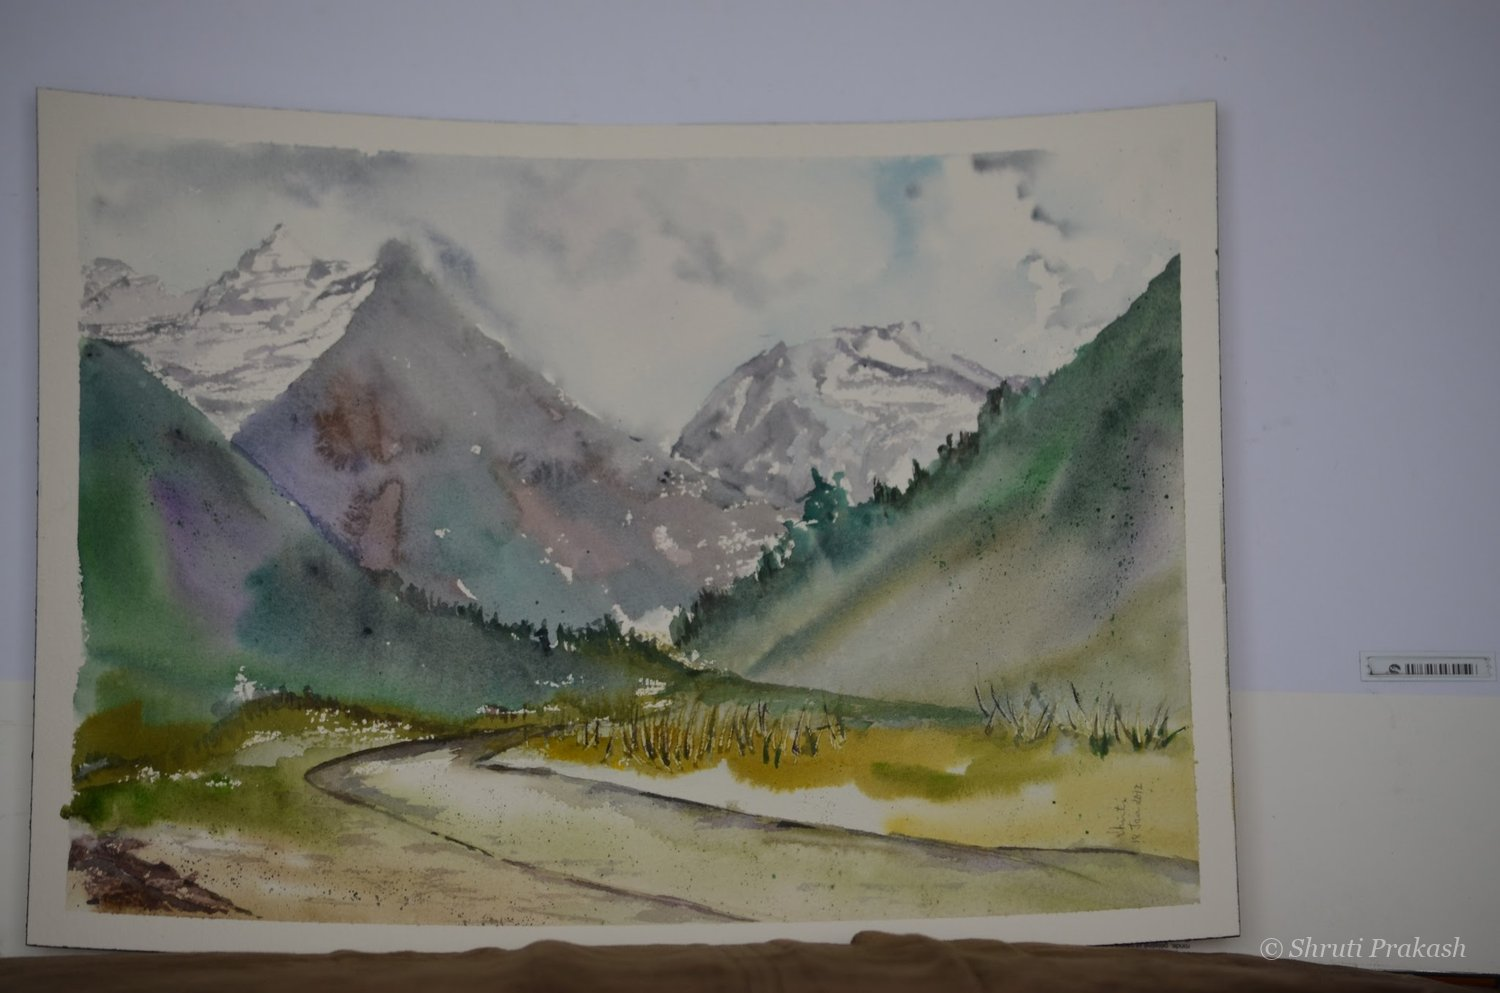
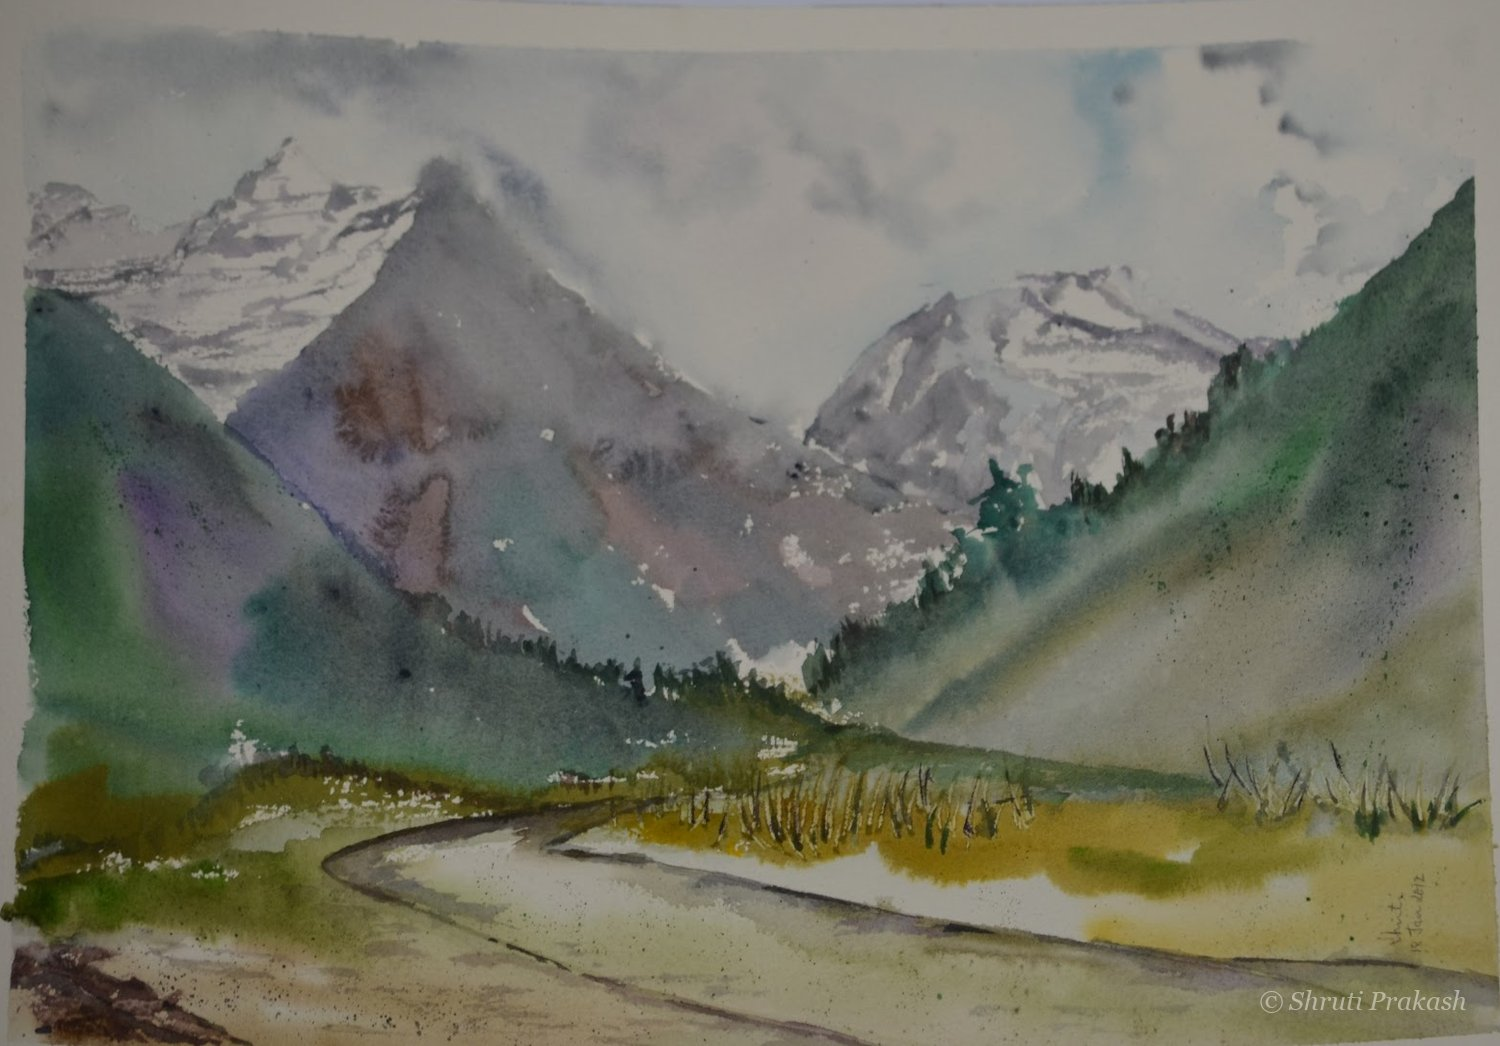
Crop paintings, add 73 new works and a Travel Journal group, update email

diff --git a/paintings.js b/paintings.js
@@ -6,7 +6,7 @@
 const SITE = {
   name: "Shruti Prakash Art",
   tagline: "Watercolor landscapes, cityscapes & quiet moments",
-  email: "shrutiprakash@gmail.com",
+  email: "shruti.prakash@gmail.com",
   instagram: "", // optional, e.g. "https://instagram.com/yourname"
 };
 
@@ -15,97 +15,102 @@ const GROUPS = [
   { id: "landscapes", title: "Landscapes" },
   { id: "cityscapes", title: "Cityscapes" },
   { id: "still-life", title: "Still Life & More" },
+  { id: "travel-journal", title: "Travel Journal" },
 ];
 
 // Your paintings, in the order they appear within each group.
 // No prices or "Available" labels are shown. Set status to "Sold" to mark one as sold.
+// size is optional; add one (e.g. size: "12 × 16 in") to show it.
 const PAINTINGS = [
-  {
-    image: "images/dsc_0712.jpg",
-    group: "landscapes",
-    title: "Valley Below the Snow Peaks",
-    medium: "Watercolor on paper",
-    status: "Available",
-    description: "A winding path through a green valley toward snow-capped mountains.",
-  },
-  {
-    image: "images/img_7335.jpg",
-    group: "landscapes",
-    title: "Misty Lake",
-    medium: "Watercolor on paper",
-    status: "Available",
-    description: "Soft morning mist settling over still water and a quiet shoreline.",
-  },
-  {
-    image: "images/dsc_0516.jpg",
-    group: "cityscapes",
-    title: "The Old Château",
-    medium: "Watercolor on paper",
-    status: "Available",
-    description: "Weathered stone towers reflected in the water at their feet.",
-  },
-  {
-    image: "images/img_6464.jpg",
-    group: "cityscapes",
-    title: "Arches and a Bicycle",
-    medium: "Watercolor on paper",
-    status: "Available",
-    description: "Warm sandstone arches and a bicycle resting in the afternoon shade.",
-  },
-  {
-    image: "images/img_6133.jpg",
-    group: "cityscapes",
-    title: "Ramnagar Fort, Banaras",
-    medium: "Watercolor in sketchbook",
-    status: "Available",
-    description: "",
-  },
-  {
-    image: "images/img_6127.jpg",
-    group: "cityscapes",
-    title: "An Old Temple of Sitaji",
-    medium: "Watercolor in sketchbook",
-    status: "Available",
-    description: "",
-  },
-  {
-    image: "images/img_6145.jpg",
-    group: "cityscapes",
-    title: "Ghar",
-    medium: "Watercolor in sketchbook",
-    status: "Available",
-    description: "Home: a white house with its terrace garden.",
-  },
-  {
-    image: "images/img_8774.jpg",
-    group: "still-life",
-    title: "Geraniums by the Window",
-    medium: "Watercolor on paper",
-    status: "Available",
-    description: "Pink geraniums in the light of a lace-curtained window.",
-  },
-  {
-    image: "images/dsc_0726.jpg",
-    group: "still-life",
-    title: "Autumn at the Window",
-    medium: "Watercolor on paper",
-    status: "Available",
-    description: "",
-  },
-  {
-    image: "images/img_6468.jpg",
-    group: "still-life",
-    title: "Ganesha",
-    medium: "Watercolor on paper",
-    status: "Available",
-    description: "",
-  },
-  {
-    image: "images/coffee.jpg",
-    group: "still-life",
-    title: "Morning Coffee",
-    medium: "Watercolor on paper",
-    status: "Available",
-    description: "A cappuccino and the morning paper.",
-  },
+  // ----- Landscapes -----
+  { image: "images/dsc_0712.jpg", group: "landscapes", title: "Valley Below the Snow Peaks", medium: "Watercolor on paper", status: "Available", description: "A winding path through a green valley toward snow-capped mountains." },
+  { image: "images/img_7335.jpg", group: "landscapes", title: "Misty Lake", medium: "Watercolor on paper", status: "Available", description: "Soft morning mist settling over still water and a quiet shoreline." },
+  { image: "images/dsc_0701.jpg", group: "landscapes", title: "Mountain Lake in Autumn", medium: "Watercolor on paper", status: "Available", description: "" },
+  { image: "images/img_9537.jpg", group: "landscapes", title: "Mountain Road", medium: "Watercolor on paper", status: "Available", description: "" },
+  { image: "images/img_8776.jpg", group: "landscapes", title: "Boats on the Shore", medium: "Watercolor on paper", status: "Available", description: "" },
+  { image: "images/img_8771.jpg", group: "landscapes", title: "Evening on the Beach", medium: "Watercolor on paper", status: "Available", description: "" },
+  { image: "images/24867_661479273199_12808515_37410455_6552051_n.jpg", group: "landscapes", title: "Flamingos at Sunset", medium: "Watercolor on paper", status: "Available", description: "" },
+  { image: "images/img_2773.jpg", group: "landscapes", title: "Pines and Peaks", medium: "Watercolor on paper", status: "Available", description: "" },
+  { image: "images/img_2784.jpg", group: "landscapes", title: "Winter Fence", medium: "Watercolor on paper", status: "Available", description: "" },
+  { image: "images/n12808515_35377351_7546264.jpg", group: "landscapes", title: "Palms and a Houseboat", medium: "Watercolor on paper", status: "Available", description: "" },
+  { image: "images/24867_661479278189_12808515_37410456_6691914_n.jpg", group: "landscapes", title: "Cottage in the Garden", medium: "Watercolor on paper", status: "Available", description: "" },
+  { image: "images/n12808515_30111728_5365.jpg", group: "landscapes", title: "Barn Under a Stormy Sky", medium: "Watercolor on paper", status: "Available", description: "" },
+
+  // ----- Cityscapes -----
+  { image: "images/dsc_0516.jpg", group: "cityscapes", title: "The Old Château", medium: "Watercolor on paper", status: "Available", description: "Weathered stone towers reflected in the water at their feet." },
+  { image: "images/img_6464.jpg", group: "cityscapes", title: "Arches and a Bicycle", medium: "Watercolor on paper", status: "Available", description: "Warm sandstone arches and a bicycle resting in the afternoon shade." },
+  { image: "images/img_8773.jpg", group: "cityscapes", title: "Bridge in the Old Town", medium: "Watercolor on paper", status: "Available", description: "" },
+  { image: "images/img_9852.jpg", group: "cityscapes", title: "Old Town Street", medium: "Watercolor on paper", status: "Available", description: "" },
+  { image: "images/img_8775.jpg", group: "cityscapes", title: "Autumn Street", medium: "Watercolor on paper", status: "Available", description: "" },
+  { image: "images/img_8772.jpg", group: "cityscapes", title: "The Tunnel", medium: "Watercolor on paper", status: "Available", description: "" },
+  { image: "images/img_9187.jpg", group: "cityscapes", title: "Chinatown, San Francisco", medium: "Watercolor on paper", status: "Available", description: "" },
+  { image: "images/1098273_10100596715080119_1041762224_n.jpg", group: "cityscapes", title: "Ferry Building and Streetcar", medium: "Watercolor on paper", status: "Available", description: "" },
+  { image: "images/img_8769.jpg", group: "cityscapes", title: "Rock-Cut Caves", medium: "Watercolor on paper", status: "Available", description: "" },
+  { image: "images/img_1416.jpg", group: "cityscapes", title: "Buddha in the Cave Temple", medium: "Watercolor on paper", status: "Available", description: "" },
+  { image: "images/img_3622.jpg", group: "cityscapes", title: "Palace with the Cannon", medium: "Watercolor on paper", status: "Available", description: "" },
+  { image: "images/img_6144.jpg", group: "cityscapes", title: "Heritage Building", medium: "Watercolor on paper", status: "Available", description: "" },
+  { image: "images/5490_628836414749_12808515_36285774_5151343_n.jpg", group: "cityscapes", title: "Balcony with Ironwork", medium: "Watercolor on paper", status: "Available", description: "" },
+  { image: "images/n12808515_35377349_6803366.jpg", group: "cityscapes", title: "Sunlit Courtyard", medium: "Watercolor on paper", status: "Available", description: "" },
+  { image: "images/img_5739.jpg", group: "cityscapes", title: "The Gate at Home", medium: "Watercolor on paper", status: "Available", description: "" },
+
+  // ----- Still Life & More -----
+  { image: "images/img_8774.jpg", group: "still-life", title: "Geraniums by the Window", medium: "Watercolor on paper", status: "Available", description: "Pink geraniums in the light of a lace-curtained window." },
+  { image: "images/mystery.jpg", group: "still-life", title: "Mystery", medium: "Watercolor on paper", status: "Available", description: "" },
+  { image: "images/img_6468.jpg", group: "still-life", title: "Ganesha", medium: "Watercolor on paper", status: "Available", description: "" },
+  { image: "images/coffee.jpg", group: "still-life", title: "Morning Coffee", medium: "Watercolor on paper", status: "Available", description: "A cappuccino and the morning paper." },
+  { image: "images/img_8770.jpg", group: "still-life", title: "Roosters", medium: "Watercolor on paper", status: "Available", description: "" },
+  { image: "images/img_4078.jpg", group: "still-life", title: "Calla Lilies", medium: "Watercolor on paper", status: "Available", description: "" },
+  { image: "images/dsc_0726.jpg", group: "still-life", title: "Autumn at the Window", medium: "Watercolor on paper", status: "Available", description: "" },
+  { image: "images/img_6292.jpg", group: "still-life", title: "Woman in a Blue Shawl", medium: "Watercolor on paper", status: "Available", description: "" },
+  { image: "images/dsc_0732.jpg", group: "still-life", title: "Village Woman with Water Pots", medium: "Watercolor on paper", status: "Available", description: "" },
+  { image: "images/img_8829.jpg", group: "still-life", title: "Roses in Crystal", medium: "Watercolor on paper", status: "Available", description: "" },
+  { image: "images/img_7796.jpg", group: "still-life", title: "Tangerine", medium: "Watercolor on paper", status: "Available", description: "" },
+  { image: "images/img_4677.jpg", group: "still-life", title: "Tulips and Teacup", medium: "Watercolor on paper", status: "Available", description: "" },
+  { image: "images/flowers.jpg", group: "still-life", title: "Hollyhocks", medium: "Watercolor on paper", status: "Available", description: "" },
+  { image: "images/img_9536.jpg", group: "still-life", title: "Stone Window with Flowers", medium: "Watercolor on paper", status: "Available", description: "" },
+  { image: "images/img_8243.jpg", group: "still-life", title: "The Old Suitcase", medium: "Watercolor on paper", status: "Available", description: "" },
+  { image: "images/img_8256.jpg", group: "still-life", title: "Glass Jar", medium: "Watercolor on paper", status: "Available", description: "" },
+  { image: "images/img_4090.jpg", group: "still-life", title: "Sneakers by the Sea", medium: "Watercolor in sketchbook", status: "Available", description: "" },
+  { image: "images/img_4081.jpg", group: "still-life", title: "Succulent", medium: "Watercolor on paper", status: "Available", description: "" },
+  { image: "images/img_7784.jpg", group: "still-life", title: "Bananas and Peppers", medium: "Watercolor on paper", status: "Available", description: "" },
+  { image: "images/5490_628836409759_12808515_36285773_3319403_n.jpg", group: "still-life", title: "Girl in a Sun Hat", medium: "Watercolor on paper", status: "Available", description: "" },
+  { image: "images/5490_628836439699_12808515_36285779_2830022_n.jpg", group: "still-life", title: "Red Rose", medium: "Watercolor on paper", status: "Available", description: "" },
+  { image: "images/5490_628836444689_12808515_36285780_6884502_n.jpg", group: "still-life", title: "Pink Rose", medium: "Watercolor on paper", status: "Available", description: "" },
+  { image: "images/5490_628836434709_12808515_36285778_4710100_n.jpg", group: "still-life", title: "Heliconias in a Glass Vase", medium: "Watercolor on paper", status: "Available", description: "" },
+  { image: "images/n12808515_35377352_7322694.jpg", group: "still-life", title: "Hydrangeas", medium: "Watercolor on paper", status: "Available", description: "" },
+  { image: "images/n12808515_35377356_2026953.jpg", group: "still-life", title: "Books, Tea and Plums", medium: "Watercolor on paper", status: "Available", description: "" },
+
+  // ----- Travel Journal -----
+  { image: "images/img_6108.jpg", group: "travel-journal", title: "Farmland at Mandar Hill", medium: "Watercolor in sketchbook", status: "Available", description: "" },
+  { image: "images/img_6109.jpg", group: "travel-journal", title: "An Old Red House", medium: "Watercolor in sketchbook", status: "Available", description: "" },
+  { image: "images/img_6136.jpg", group: "travel-journal", title: "Hilltop Temple, Rajgir", medium: "Watercolor in sketchbook", status: "Available", description: "" },
+  { image: "images/img_6137.jpg", group: "travel-journal", title: "Village on the Drive to Rajgir", medium: "Watercolor in sketchbook", status: "Available", description: "" },
+  { image: "images/img_6114.jpg", group: "travel-journal", title: "Nalanda Ruins", medium: "Watercolor in sketchbook", status: "Available", description: "" },
+  { image: "images/img_6116-1.jpg", group: "travel-journal", title: "Hotel at Bodh Gaya", medium: "Watercolor in sketchbook", status: "Available", description: "" },
+  { image: "images/img_6117-1.jpg", group: "travel-journal", title: "Tilkut Stand on the Way to Bodh Gaya", medium: "Watercolor in sketchbook", status: "Available", description: "" },
+  { image: "images/img_6118.jpg", group: "travel-journal", title: "Yakshini, Patna Museum", medium: "Watercolor in sketchbook", status: "Available", description: "" },
+  { image: "images/img_6124.jpg", group: "travel-journal", title: "Darbhanga House, Patna University", medium: "Watercolor in sketchbook", status: "Available", description: "" },
+  { image: "images/img_6125.jpg", group: "travel-journal", title: "Golghar, Patna", medium: "Watercolor in sketchbook", status: "Available", description: "" },
+  { image: "images/img_3602.jpg", group: "travel-journal", title: "Hanuman Mandir & Masjid, Patna", medium: "Watercolor in sketchbook", status: "Available", description: "" },
+  { image: "images/img_6142.jpg", group: "travel-journal", title: "Ara Junction", medium: "Watercolor in sketchbook", status: "Available", description: "As seen from the train to Banaras." },
+  { image: "images/img_6110.jpg", group: "travel-journal", title: "Fort Overlooking the Ganges", medium: "Watercolor in sketchbook", status: "Available", description: "" },
+  { image: "images/img_6133.jpg", group: "travel-journal", title: "Ramnagar Fort, Banaras", medium: "Watercolor in sketchbook", status: "Available", description: "" },
+  { image: "images/img_6140.jpg", group: "travel-journal", title: "Ramnagar Fort Gateway", medium: "Watercolor in sketchbook", status: "Available", description: "" },
+  { image: "images/img_6111.jpg", group: "travel-journal", title: "The Temple Bell, BHU Campus", medium: "Watercolor in sketchbook", status: "Available", description: "" },
+  { image: "images/img_6121.jpg", group: "travel-journal", title: "Steps by the Ghat", medium: "Watercolor in sketchbook", status: "Available", description: "" },
+  { image: "images/img_6122.jpg", group: "travel-journal", title: "Puppies Warming Up on the Ganga Path", medium: "Watercolor in sketchbook", status: "Available", description: "" },
+  { image: "images/img_6123.jpg", group: "travel-journal", title: "Somewhere on the Ganga Path", medium: "Watercolor in sketchbook", status: "Available", description: "" },
+  { image: "images/img_6120.jpg", group: "travel-journal", title: "Through the Arches", medium: "Watercolor in sketchbook", status: "Available", description: "" },
+  { image: "images/img_6112.jpg", group: "travel-journal", title: "Hazaribagh House", medium: "Watercolor in sketchbook", status: "Available", description: "" },
+  { image: "images/img_6138.jpg", group: "travel-journal", title: "Courtyard in Hazaribagh", medium: "Watercolor in sketchbook", status: "Available", description: "" },
+  { image: "images/img_6113.jpg", group: "travel-journal", title: "Kitchen Corner", medium: "Watercolor in sketchbook", status: "Available", description: "" },
+  { image: "images/img_6139.jpg", group: "travel-journal", title: "Roadside Fruit Stand", medium: "Watercolor in sketchbook", status: "Available", description: "" },
+  { image: "images/img_6145.jpg", group: "travel-journal", title: "Ghar", medium: "Watercolor in sketchbook", status: "Available", description: "Home: a white house with its terrace garden." },
+  { image: "images/img_6127.jpg", group: "travel-journal", title: "An Old Temple of Sitaji", medium: "Watercolor in sketchbook", status: "Available", description: "" },
+  { image: "images/img_6128.jpg", group: "travel-journal", title: "The Abandoned Fort", medium: "Watercolor in sketchbook", status: "Available", description: "" },
+  { image: "images/img_6126.jpg", group: "travel-journal", title: "Chai Stall at Ganpatipule", medium: "Watercolor in sketchbook", status: "Available", description: "" },
+  { image: "images/img_6129.jpg", group: "travel-journal", title: "The Old Military Fort", medium: "Watercolor in sketchbook", status: "Available", description: "" },
+  { image: "images/img_6130.jpg", group: "travel-journal", title: "The Path to West Bay, Ganpatipule", medium: "Watercolor in sketchbook", status: "Available", description: "" },
+  { image: "images/img_6131.jpg", group: "travel-journal", title: "A Roadside Stop", medium: "Watercolor in sketchbook", status: "Available", description: "" },
+  { image: "images/img_6135.jpg", group: "travel-journal", title: "Elephanta Caves, Bombay", medium: "Watercolor in sketchbook", status: "Available", description: "" },
 ];
